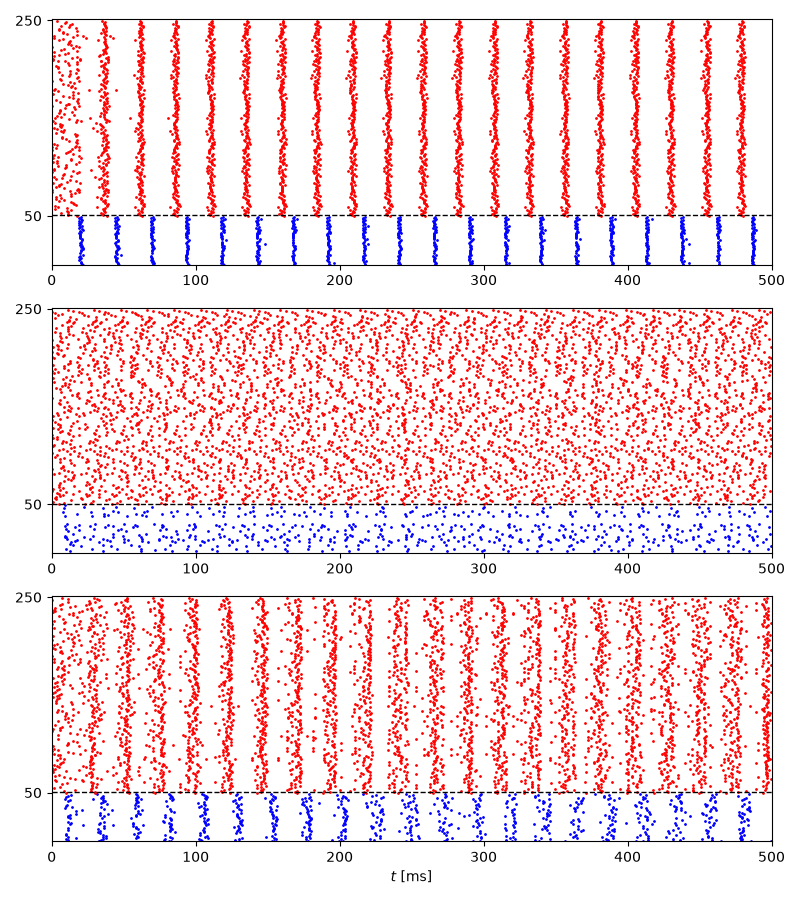
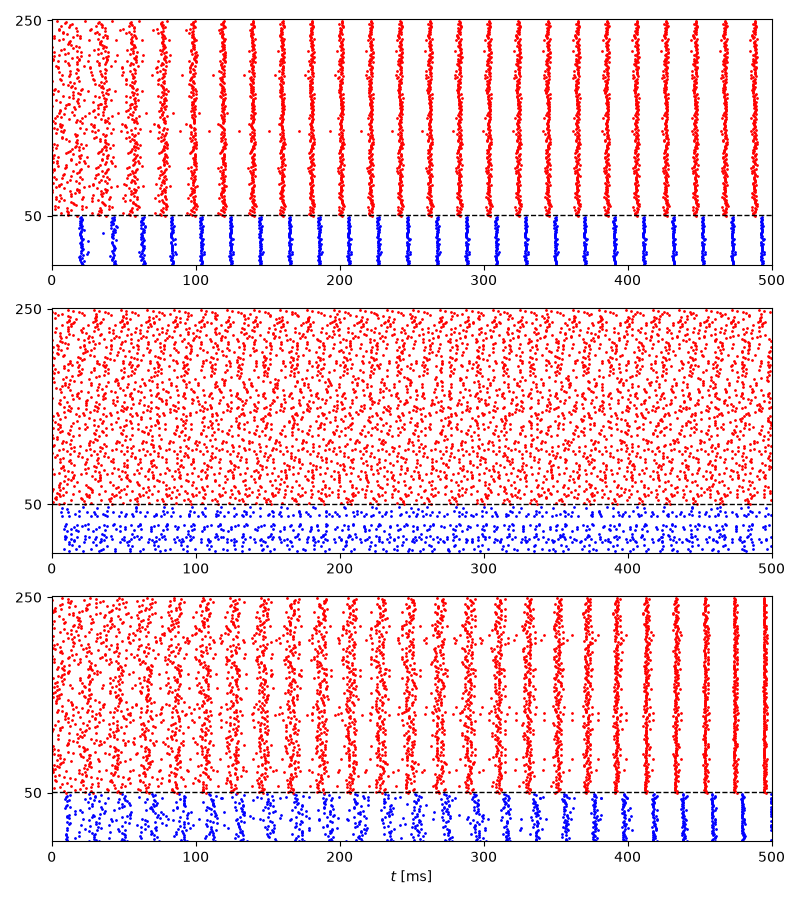
Fix WB I-cell tau_h_i/tau_n_i: missing phi=5 speedup factor in PING_5-9
MATLAB's tau_h_i.m/tau_n_i.m divide the raw rate-sum reciprocal by
phi=5; my port omitted this, making I-cell gating kinetics 5x too slow
and the whole network's gamma frequency correspondingly too low.

Changed region(s): [[0.0625, 0.6533, 0.9688, 0.9333], [0.0938, 0.0, 0.9688, 0.3111], [0.0625, 0.3422, 0.9688, 0.6222]]

diff --git a/python/30_The_PING_Model_of_Gamma_Rhythms/PING_5/main.py b/python/30_The_PING_Model_of_Gamma_Rhythms/PING_5/main.py
@@ -76,7 +76,7 @@ def h_i_inf(v):
 def tau_h_i(v):
     alpha_h = 0.07 * exp(-(v + 58) / 20)
     beta_h = 1. / (exp(-0.1 * (v + 28)) + 1)
-    return 1. / (alpha_h + beta_h)
+    return 1. / (alpha_h + beta_h) / 5
 
 
 def n_i_inf(v):
@@ -88,7 +88,7 @@ def n_i_inf(v):
 def tau_n_i(v):
     alpha_n = -0.01 * (v + 34) / (exp(-0.1 * (v + 34)) - 1)
     beta_n = 0.125 * exp(-(v + 44) / 80)
-    return 1. / (alpha_n + beta_n)
+    return 1. / (alpha_n + beta_n) / 5
 
 
 # ------------------------------------------------------------------- shared

diff --git a/python/30_The_PING_Model_of_Gamma_Rhythms/PING_6/main.py b/python/30_The_PING_Model_of_Gamma_Rhythms/PING_6/main.py
@@ -76,7 +76,7 @@ def h_i_inf(v):
 def tau_h_i(v):
     alpha_h = 0.07 * exp(-(v + 58) / 20)
     beta_h = 1. / (exp(-0.1 * (v + 28)) + 1)
-    return 1. / (alpha_h + beta_h)
+    return 1. / (alpha_h + beta_h) / 5
 
 
 def n_i_inf(v):
@@ -88,7 +88,7 @@ def n_i_inf(v):
 def tau_n_i(v):
     alpha_n = -0.01 * (v + 34) / (exp(-0.1 * (v + 34)) - 1)
     beta_n = 0.125 * exp(-(v + 44) / 80)
-    return 1. / (alpha_n + beta_n)
+    return 1. / (alpha_n + beta_n) / 5
 
 
 # ------------------------------------------------------------------- shared

diff --git a/python/30_The_PING_Model_of_Gamma_Rhythms/PING_7/main.py b/python/30_The_PING_Model_of_Gamma_Rhythms/PING_7/main.py
@@ -76,7 +76,7 @@ def h_i_inf(v):
 def tau_h_i(v):
     alpha_h = 0.07 * exp(-(v + 58) / 20)
     beta_h = 1. / (exp(-0.1 * (v + 28)) + 1)
-    return 1. / (alpha_h + beta_h)
+    return 1. / (alpha_h + beta_h) / 5
 
 
 def n_i_inf(v):
@@ -88,7 +88,7 @@ def n_i_inf(v):
 def tau_n_i(v):
     alpha_n = -0.01 * (v + 34) / (exp(-0.1 * (v + 34)) - 1)
     beta_n = 0.125 * exp(-(v + 44) / 80)
-    return 1. / (alpha_n + beta_n)
+    return 1. / (alpha_n + beta_n) / 5
 
 
 # ------------------------------------------------------------------- shared

diff --git a/python/30_The_PING_Model_of_Gamma_Rhythms/PING_8/main.py b/python/30_The_PING_Model_of_Gamma_Rhythms/PING_8/main.py
@@ -76,7 +76,7 @@ def h_i_inf(v):
 def tau_h_i(v):
     alpha_h = 0.07 * exp(-(v + 58) / 20)
     beta_h = 1. / (exp(-0.1 * (v + 28)) + 1)
-    return 1. / (alpha_h + beta_h)
+    return 1. / (alpha_h + beta_h) / 5
 
 
 def n_i_inf(v):
@@ -88,7 +88,7 @@ def n_i_inf(v):
 def tau_n_i(v):
     alpha_n = -0.01 * (v + 34) / (exp(-0.1 * (v + 34)) - 1)
     beta_n = 0.125 * exp(-(v + 44) / 80)
-    return 1. / (alpha_n + beta_n)
+    return 1. / (alpha_n + beta_n) / 5
 
 
 # ------------------------------------------------------------------- shared

diff --git a/python/30_The_PING_Model_of_Gamma_Rhythms/PING_9/main.py b/python/30_The_PING_Model_of_Gamma_Rhythms/PING_9/main.py
@@ -76,7 +76,7 @@ def h_i_inf(v):
 def tau_h_i(v):
     alpha_h = 0.07 * exp(-(v + 58) / 20)
     beta_h = 1. / (exp(-0.1 * (v + 28)) + 1)
-    return 1. / (alpha_h + beta_h)
+    return 1. / (alpha_h + beta_h) / 5
 
 
 def n_i_inf(v):
@@ -88,7 +88,7 @@ def n_i_inf(v):
 def tau_n_i(v):
     alpha_n = -0.01 * (v + 34) / (exp(-0.1 * (v + 34)) - 1)
     beta_n = 0.125 * exp(-(v + 44) / 80)
-    return 1. / (alpha_n + beta_n)
+    return 1. / (alpha_n + beta_n) / 5
 
 
 # ------------------------------------------------------------------- shared
